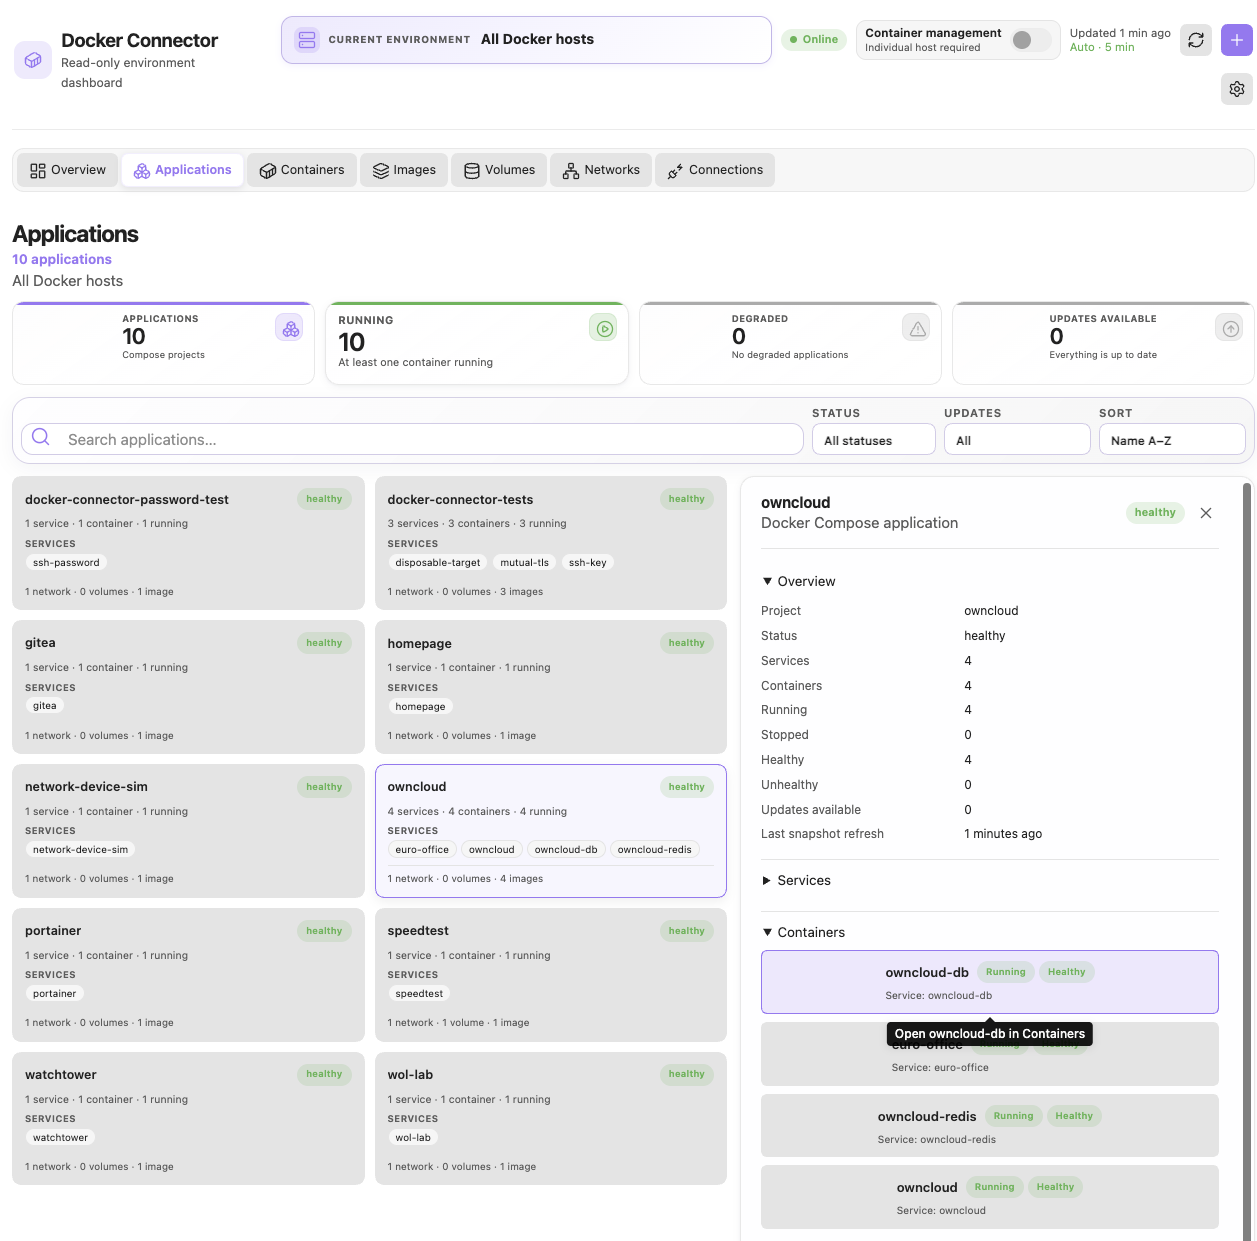
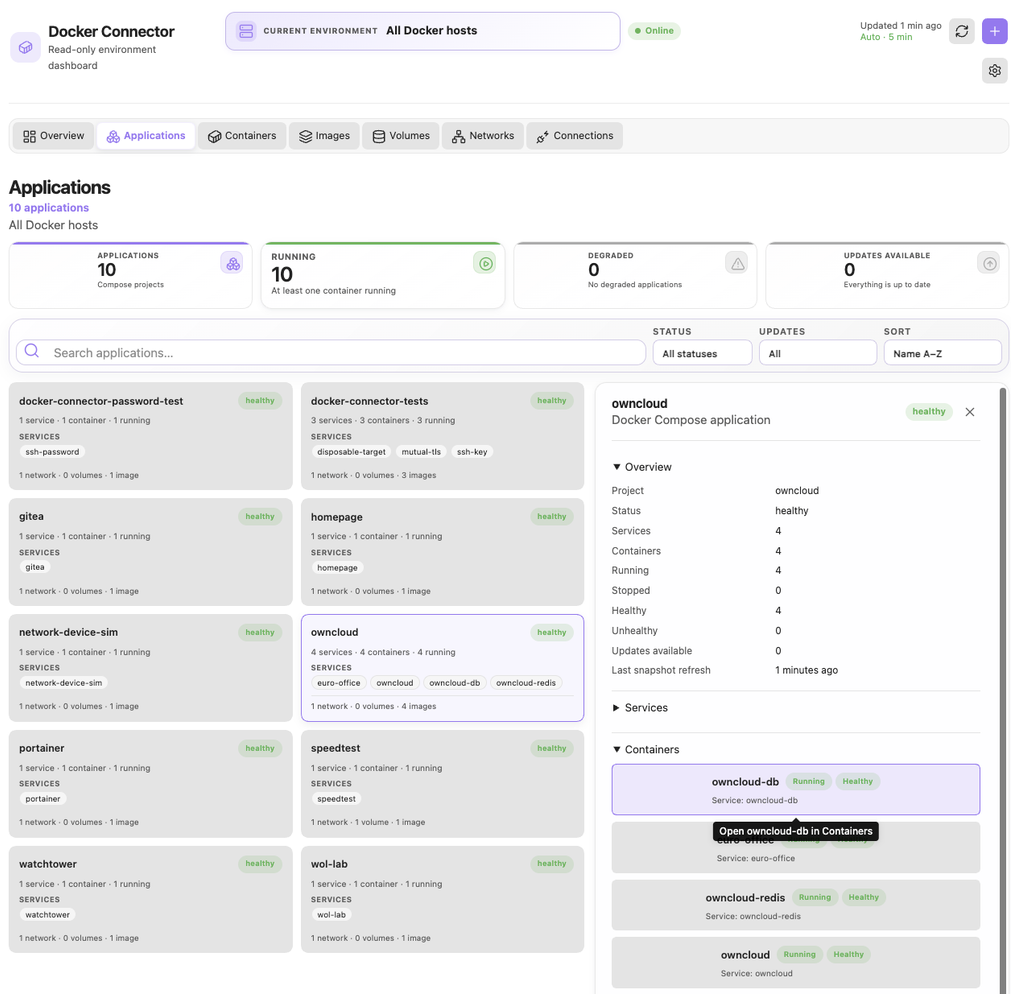
Replace screenshots 20, 21 and 23
Each retaken without the header container-management switch. Widths are
1012, 1010 and 1011, so the guide's 880px cap is unchanged.

23 is the application inspector, matched by content: the supplied file shows
the 10-application list with the owncloud inspector open, which is what that
figure depicts.

The fourth supplied file is the applications list, which is figure 22 rather
than 23, and it shows 20 applications with every one duplicated. That is the
state the daemon deduplication removes, and the same file taken a minute
later shows 10, so it was captured before the refresh settled. It is not
installed; 22 stays on the list with a note to capture it once settled.

Claude-Session: https://claude.ai/code/session_01PdbPpb29X3tFzQC5aHqcYn

diff --git a/docs/Docker Connector - Screenshot Recapture.md b/docs/Docker Connector - Screenshot Recapture.md
@@ -4,9 +4,9 @@ tags: [docker-connector, documentation, screenshots]
 
 # Screenshot recapture
 
-9 User Guide screenshots still need retaking, because what they show has structurally changed: a control that no longer exists, a dialog that is now an Obsidian modal, duplicated data since deduplicated, or a block that did not exist yet. Each row was checked by opening the image.
+6 User Guide screenshots still need retaking, because what they show has structurally changed: a control that no longer exists, a dialog that is now an Obsidian modal, duplicated data since deduplicated, or a block that did not exist yet. Each row was checked by opening the image.
 
-01, 02 and 18 were replaced on 28-Aug-2026.
+01, 02, 18, 20, 21 and 23 were replaced on 28-Aug-2026.
 
 Screenshots whose only difference is letter case are deliberately left as they are: 09, 11, 12, 13, 14, 15, 16, 17 and 30 show title-case labels such as **Test Connection** or **In Use** where the interface now reads **Test connection** and **In use**. They are not being recaptured.
 
@@ -17,10 +17,7 @@ Images live in `docs/images/user-guide/`; the guide sizes each one to at most 88
 | ✓ | # | File | What the current image shows | What the new image must show |
 | --- | --- | --- | --- | --- |
 | [ ] | 19 | `19-authentication-required-reconnect.png` | Authentication-required card: pill, Reconnect, zeroed inventory, *Docker details unavailable* | Card now also carries a **failure-reason line** — lock icon and the server's own reason — above the endpoint row |
-| [ ] | 20 | `20-delete-connection.png` | Delete modal ending *…and Docker **C**ontexts are not deleted.* Behind it, the header switch and **Add Docker Host** | No header switch behind the modal. Label casing is not the reason for this one |
-| [ ] | 21 | `21-current-environment.png` | Header crop, environment dropdown open, **Container management / Unavailable** switch | Same dropdown, no management switch |
-| [ ] | 22 | `22-applications-list.png` | **20 applications, every one duplicated** (gitea ×2, owncloud ×2, …). Header switch present | **10 applications, no duplicates.** No header switch |
-| [ ] | 23 | `23-application-inspector.png` | Application inspector, 10 apps. Header switch. A tooltip *Open owncloud-db in Containers* overlaps a card | No header switch, and no stray tooltip |
+| [ ] | 22 | `22-applications-list.png` | **20 applications, every one duplicated** (gitea ×2, owncloud ×2, …). Header switch present | **10 applications, no duplicates.** Capture after the refresh has settled: immediately after a refresh the list can still show every application twice, which is the state 23 was taken in |
 | [ ] | 35 | `35-management-confirmation.png` | **Native browser dialog**, OS-styled: *Enable container management for …?* with **Cancel / OK** | **Obsidian modal** titled *Enable container management*, a details row naming the Docker host, buttons **Cancel / Enable management** |
 | [ ] | 38 | `38-action-confirmation.png` | **Native browser dialog** *Stop container?* listing Container / Image / Docker host, **Cancel / OK** | **Obsidian modal** titled *Stop container*, the three as labelled rows, red **Stop** button |
 | [ ] | 40 | `40-start-confirmation.png` | **Native browser dialog** *Start container?*, **Cancel / OK** | **Obsidian modal** titled *Start container*, accent **Start** button — start is not destructive, so it is not red |
@@ -30,13 +27,13 @@ Images live in `docs/images/user-guide/`; the guide sizes each one to at most 88
 
 | Cause | Landed | Screenshots still to retake |
 | --- | --- | --- |
-| Header **Container management** switch removed | 26-Aug-2026 22:43 | 20, 21, 22, 23 |
+| Header **Container management** switch removed | 26-Aug-2026 22:43 | 22 |
 | Inventories deduplicated by Docker daemon | 26-Aug-2026 23:09 | 22 |
 | About and support footer added to settings | 27-Aug-2026 23:09 | 41 |
 | Browser confirm dialogs replaced by an Obsidian modal | 27-Aug-2026 23:44 | 35, 38, 40 |
 | Connection card states its failure reason | 28-Aug-2026 11:04 | 19 |
 
-Sentence case landed on 27-Aug-2026 21:14 and affects 09, 11, 12, 13, 14, 15, 16, 17, 18, 20 and 30. Only 20 is still being retaken, and for the header switch rather than its casing; the rest are accepted as they are.
+Sentence case landed on 27-Aug-2026 21:14 and affects 09, 11, 12, 13, 14, 15, 16, 17, 18, 20 and 30. None is being retaken for its casing; the replacements above keep their title-case labels.
 
 Two renames are invisible and need no recapture: the metric card labels and the dialog section headings are uppercased by CSS, so `Updates Available` to `Updates available` and `Authentication Details` to `Authentication details` do not change what is on screen.
 
